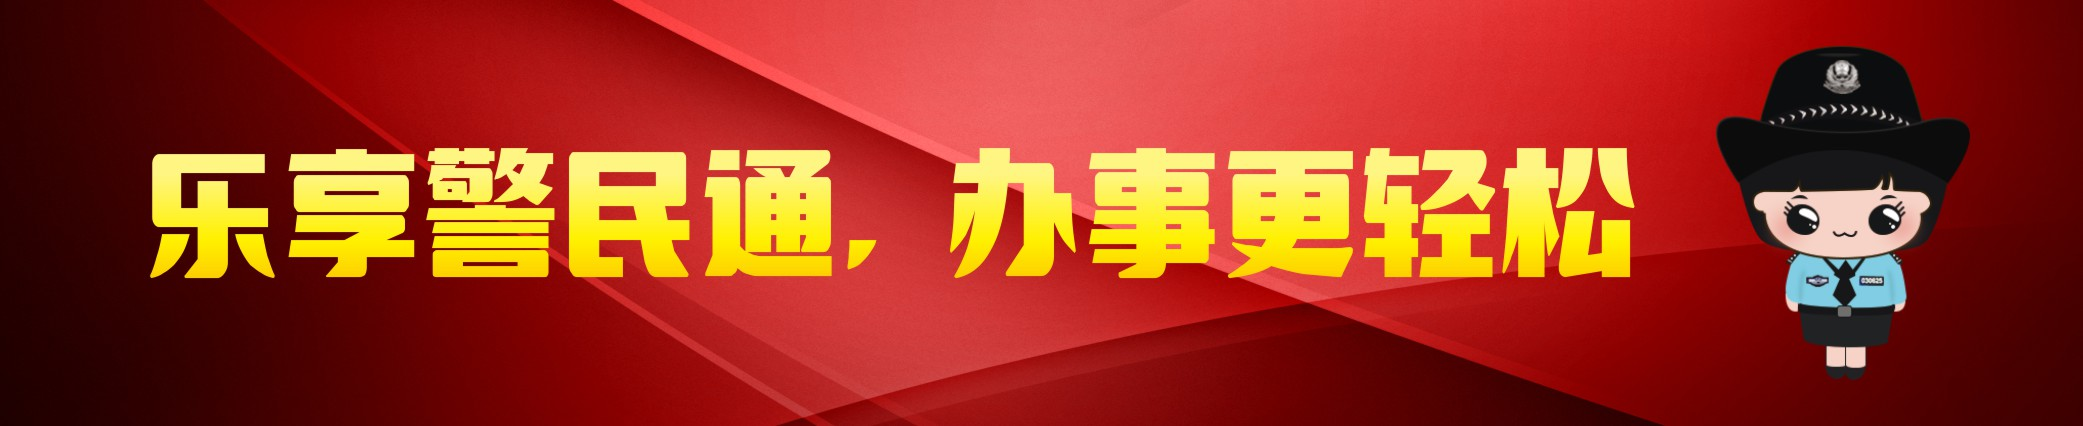
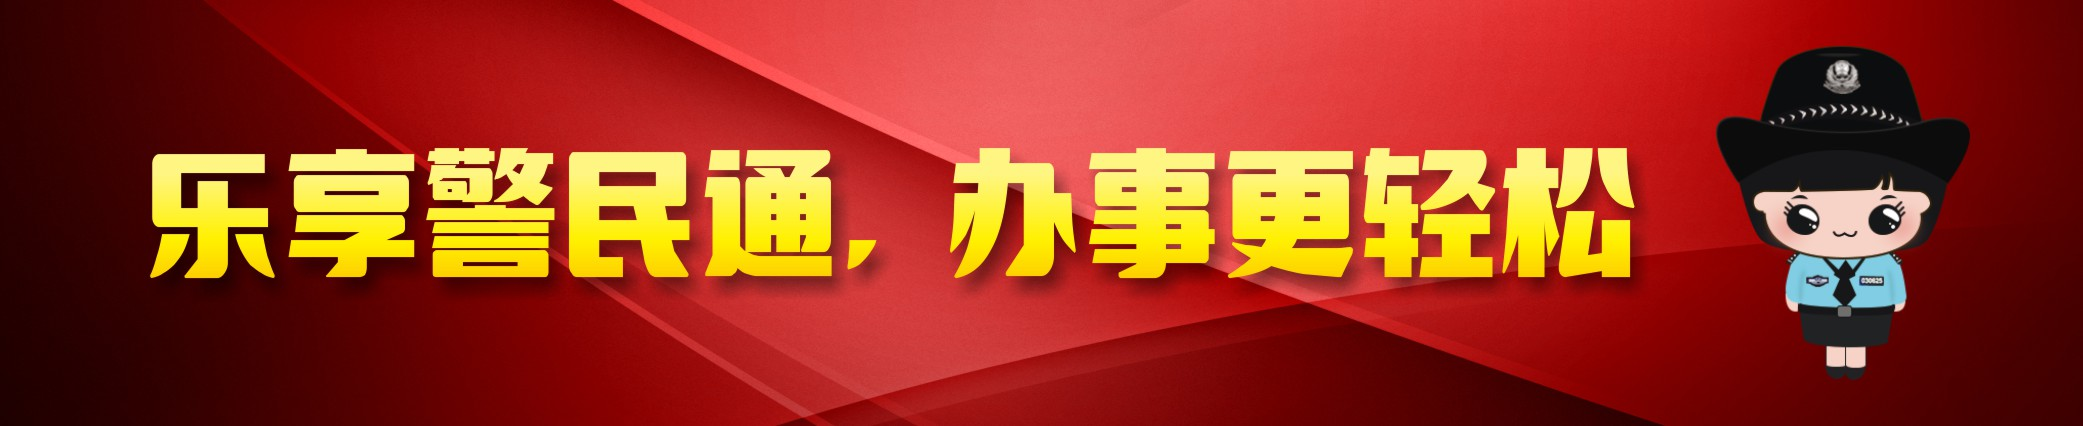
evaluation

Changed region(s): [[0.0936, 0.3662, 0.8113, 0.7019], [0.0936, 0.5188, 0.1248, 0.5493]]

diff --git a/pages/jpyc_feedback.html b/pages/jpyc_feedback.html
@@ -91,7 +91,7 @@
     </div>
     <script>
         $(function() {
-            $(".slogan").prop("src", slogan3)
+            $(".slogan").prop("src", slogan7)
             let btnSubmit = $('#submitOpinion')
             let emojis = $('.emoji-wr').children('i')
             let feedback = $('.fb-word')
